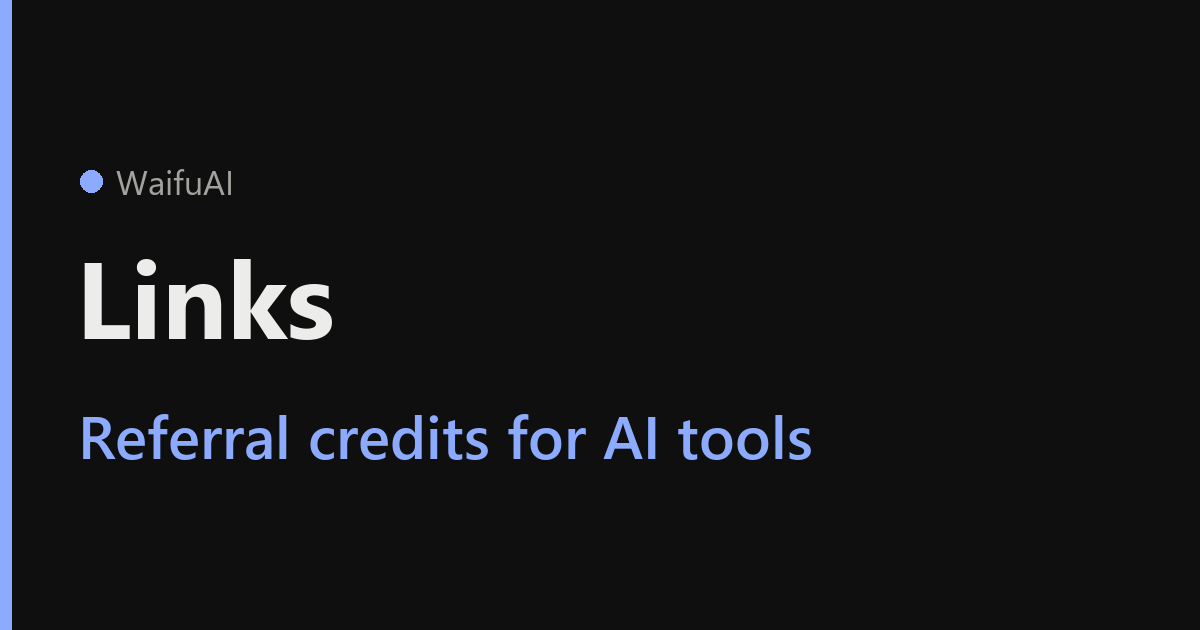
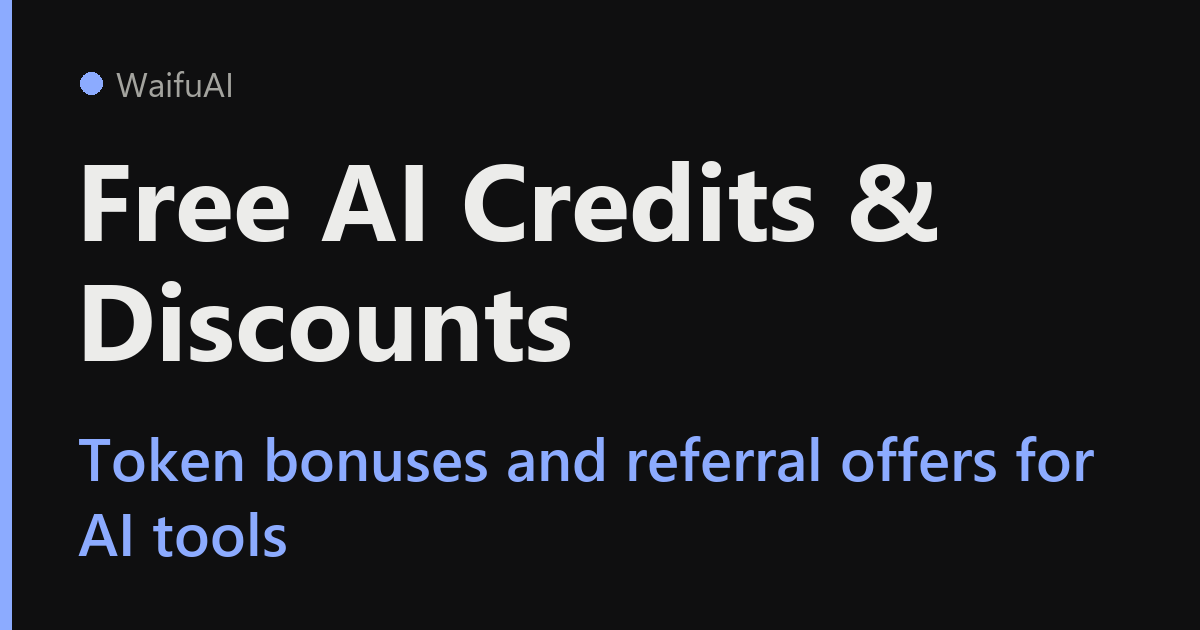
update freebies

diff --git a/links.html b/links.html
@@ -11,10 +11,10 @@
 </script>
 <meta charset="UTF-8">
 <meta name="viewport" content="width=device-width, initial-scale=1.0">
-<meta name="description" content="WaifuAI referral &amp; affiliate links: free credits and discounts for LLM platforms and AI tools when you sign up through these links.">
+<meta name="description" content="Free AI credits, token bonuses and discounts for LLM platforms and AI tools. Browse WaifuAI's referral offers and invite links.">
 <meta name="robots" content="index, follow">
 <link rel="canonical" href="https://waifuai.github.io/links.html">
-<title>Links &amp; Referrals | WaifuAI</title>
+<title>Free AI Credits &amp; Discounts | WaifuAI</title>
 <link rel="icon" href="/favicon.ico" sizes="any">
 <link rel="stylesheet" href="/theme.css">
 <style>
@@ -29,11 +29,11 @@
 .link-list a:hover .cta { color: #fff; }
 .link-list a .badge { flex-shrink: 0; margin-left: 0.5rem; }
 </style>
-<meta property="og:image" content="https://waifuai.github.io/og/links.png?v=cfdf940031">
+<meta property="og:image" content="https://waifuai.github.io/og/links.png?v=7a9afbb916">
 <meta property="og:image:width" content="1200">
 <meta property="og:image:height" content="630">
 <meta name="twitter:card" content="summary_large_image">
-<meta name="twitter:image" content="https://waifuai.github.io/og/links.png?v=cfdf940031">
+<meta name="twitter:image" content="https://waifuai.github.io/og/links.png?v=7a9afbb916">
 </head>
 <body>
 <!-- site-header -->
@@ -44,7 +44,7 @@
   <div style="display: flex; justify-content: center; margin-bottom: 0.75rem; flex-wrap: wrap;">
     <span class="badge badge-accent">Referral Links</span>
   </div>
-  <h1>Links</h1>
+  <h1>Free AI Credits &amp; Discounts</h1>
   <p>Free credits and discounts on AI tools I actually use. Click a card to grab the bonus.</p>
   <div class="links">
     <a href="/">Docs hub</a>

diff --git a/index.html b/index.html
@@ -350,7 +350,7 @@
 
 <footer class="site-footer">
   <div class="wrap">
-    <p><a href="https://waifuai.com/">Companion app</a> &middot; <a href="search.html">Search</a> &middot; <a href="data/">Open data</a> &middot; <a href="links.html">Links</a> &middot; <a href="sitemap.xml">Sitemap</a></p>
+    <p><a href="https://waifuai.com/">Companion app</a> &middot; <a href="search.html">Search</a> &middot; <a href="data/">Open data</a> &middot; <a href="links.html">Free AI Credits &amp; Discounts</a> &middot; <a href="sitemap.xml">Sitemap</a></p>
     <p><a href="https://github.com/waifuai">GitHub</a> &middot; <a href="https://x.com/thewaifuai">X</a> &middot; <a href="https://www.youtube.com/@thewaifuai">YouTube</a></p>
   </div>
 </footer>

diff --git a/tools/generate_og_cards.py b/tools/generate_og_cards.py
@@ -58,7 +58,7 @@ PROJECTS = {
 }
 # Root-level pages: file -> (name, tagline). Cards go in og/.
 ROOT_PAGES = {
-    "links.html": ("Links", "Referral credits for AI tools"),
+    "links.html": ("Free AI Credits & Discounts", "Token bonuses and referral offers for AI tools"),
     "search.html": ("Search", "Find any page on the site"),
 }
 HOME = ("waifuai.github.io", "WaifuAI", "Open-source AI companions, tools and research")
